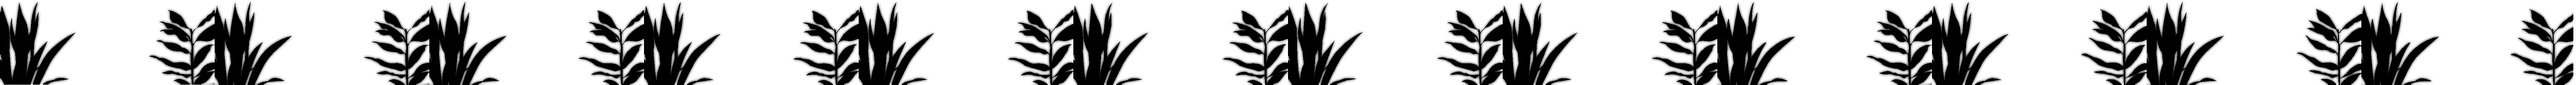
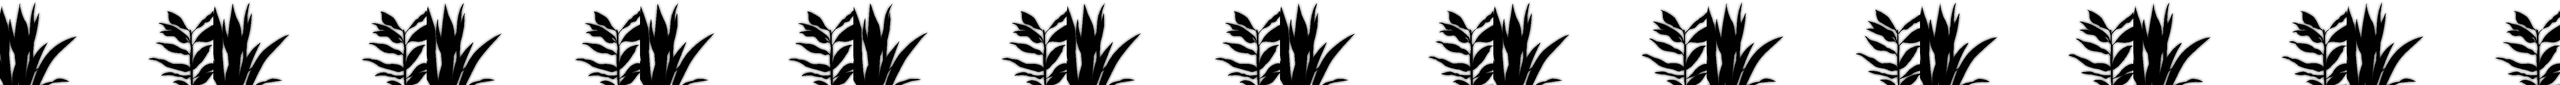
53
타이틀씬 애니메이션 추가

플레이어 애니메이션 추가중

animator create 스프라이트Ratio 인자로 추가해서 텍스처마다 다른 비율로 계산해주게함

diff --git a/Engine_SOURCE/Animator.cpp b/Engine_SOURCE/Animator.cpp
@@ -35,9 +35,10 @@ namespace dru
 		if (!mCurrentAnimation)
 			return;
 
+		Events* events = FindEvents(mCurrentAnimation->GetAnimationName());
+
 		if (mCurrentAnimation->IsCompleted())
 		{
-			Events* events = FindEvents(mCurrentAnimation->GetAnimationName());
 
 			if (events)
 				events->mCompleteEvent();
@@ -45,7 +46,12 @@ namespace dru
 			if(mbLoop)
 				mCurrentAnimation->Reset();
 		}
-		mCurrentAnimation->update();
+		UINT spriteIndex = mCurrentAnimation->update();
+
+		if (spriteIndex != -1 && events->mFrameEvents[spriteIndex].mEvent)
+		{
+			events->mFrameEvents[spriteIndex].mEvent();
+		}
 	}
 
 	void CAnimator::fixedUpdate()
@@ -56,7 +62,7 @@ namespace dru
 	{
 	}
 
-	bool CAnimator::Create(const std::wstring& _name, std::shared_ptr<CTexture> _atlas, Vector2 _leftTop, Vector2 _size, Vector2 _offset, UINT _spriteLength, float _duration, bool _Reverse)
+	bool CAnimator::Create(const std::wstring& _name, std::shared_ptr<CTexture> _atlas, Vector2 _leftTop, Vector2 _size, Vector2 _offset, UINT _spriteLength, Vector2 _Ratio, float _duration, bool _Reverse)
 	{
 		if (!_atlas)
 			return false;
@@ -66,12 +72,13 @@ namespace dru
 			return false;
 
 		animation = new CAnimation();
-		animation->Create(_name, _atlas, _leftTop, _size, _offset, _spriteLength, _duration, _Reverse);
+		animation->Create(_name, _atlas, _leftTop, _size, _offset, _spriteLength, _Ratio, _duration, _Reverse);
 
 		mAnimations.insert(std::make_pair(_name, animation));
 
 		Events* events = new Events();
-//		mEvents.insert(std::make_pair(, events))
+		events->mFrameEvents.resize(_spriteLength);
+		mEvents.insert(std::make_pair(_name, events));
 
 		return true;
 	}
@@ -103,8 +110,9 @@ namespace dru
 	void CAnimator::Play(std::wstring _name, bool _bLoop)
 	{
 		CAnimation* prevAnimation = mCurrentAnimation;
-
-		Events* events = FindEvents(mCurrentAnimation->GetAnimationName());
+		Events* events = nullptr;
+		if (prevAnimation)
+			events = FindEvents(mCurrentAnimation->GetAnimationName());
 
 		if (events)
 			events->mEndEvent();
@@ -151,6 +159,13 @@ namespace dru
 		Events* events = FindEvents(_name);
 
 		return events->mEndEvent.mEvent;
+	}
+
+	std::function<void()>& CAnimator::GetFrameEvent(const std::wstring& _name, UINT _idx)
+	{
+		Events* events = FindEvents(_name);
+
+		return events->mFrameEvents[_idx].mEvent;
 	}
 
 }

diff --git a/Engine_SOURCE/PlayerScript.cpp b/Engine_SOURCE/PlayerScript.cpp
@@ -4,6 +4,7 @@
 #include "Input.h"
 #include "TimeMgr.h"
 #include "RigidBody.h"
+#include "Animator.h"
 
 namespace dru
 {
@@ -17,6 +18,11 @@ namespace dru
 
 	void CPlayerScript::Initialize()
 	{
+		CAnimator* animator = GetOwner()->GetComponent<CAnimator>();
+		animator->GetCompleteEvent(L"Player_IdleToRun") = std::bind(&CPlayerScript::idletorun, this);
+		animator->GetCompleteEvent(L"Player_RunToIdle") = std::bind(&CPlayerScript::runtoidle, this);
+		animator->GetCompleteEvent(L"Player_Attack") = std::bind(&CPlayerScript::attacktoidle, this);
+
 	}
 
 	void CPlayerScript::update()
@@ -67,7 +73,7 @@ namespace dru
 				MousePos /= 100.f;
 	
 			if (MousePos.x < pos.x)
-				GetOwner()->SetLeft();
+				GetOwner()->SetLeft(); 
 			else
 				GetOwner()->SetRight();
 
@@ -81,6 +87,8 @@ namespace dru
 
 				rigidebody->AddForce(vect * 20000.f);
 
+				CAnimator* animator = GetOwner()->GetComponent<CAnimator>();
+				animator->Play(L"Player_Attack", false);
 			}
 		}
 
@@ -91,6 +99,10 @@ namespace dru
 
 		transform->SetPosition(pos);
 		GetOwner()->Flip();
+
+
+		//CAnimator* animator = GetOwner()->GetComponent<CAnimator>();
+		//animator->GetCompleteEvent(L"idletorun")  = std::bind(&CPlayerScript::idletorun, this);
 	}
 
 	void CPlayerScript::fixedUpdate()
@@ -105,7 +117,7 @@ namespace dru
 	{
 		if (L"col_floor" == _oppo->GetName())
 		{
-			GetOwner()->GetComponent<CRigidBody>()->OnGround();
+			GetOwner()->GetComponent<CRigidBody>()->SetGround();
 
 
 		}
@@ -129,6 +141,23 @@ namespace dru
 
 	void CPlayerScript::OnTriggerExit(CCollider2D* _oppo)
 	{
+	}
+
+	void CPlayerScript::idletorun()
+	{
+	}
+
+	void CPlayerScript::runtoidle()
+	{
+	}
+
+	void CPlayerScript::attacktoidle()
+	{
+		if (!GetOwner()->GetComponent<CRigidBody>()->IsOnAir())
+		{
+			CAnimator* animator = GetOwner()->GetComponent<CAnimator>();
+			animator->Play(L"Player_Idle");
+		}
 	}
 
 }

diff --git a/Engine_SOURCE/Player.cpp b/Engine_SOURCE/Player.cpp
@@ -25,10 +25,11 @@ namespace dru
 		SpriteRenderer->SetMaterial(Material);
 
 		CAnimator* animator = playerObj->AddComponent<CAnimator>(eComponentType::Animator);
-		animator->Create(L"Player_Idle", Material->GetTexture(), { 0.f, 0.f }, { 40.f, 40.f }, Vector2::Zero, 10, 0.1f);
-		animator->Create(L"Player_Run", Material->GetTexture(), { 10.f, 11.f }, { 36.f, 35.f }, Vector2::Zero, 10, 0.1f);
-		animator->Create(L"Player_IdleToRun", Material->GetTexture(), { 396.f, 0.f }, { 44.f, 36.f }, Vector2::Zero, 4, 0.1f);
-		animator->Create(L"Player_RunToIdle", Material->GetTexture(), { 622.f, 0.f }, { 52.f, 39.f }, Vector2::Zero, 4, 0.1f);
+		animator->Create(L"Player_Idle", Material->GetTexture(), { 2718.f, 0.f }, { 62.f, 50.f }, Vector2::Zero, 10, { 50.f, 50.f }, 0.1f);
+		animator->Create(L"Player_Run", Material->GetTexture(), { 10.f, 11.f }, { 36.f, 35.f }, Vector2::Zero, 10, { 35.f, 35.f }, 0.1f);
+		animator->Create(L"Player_IdleToRun", Material->GetTexture(), { 396.f, 0.f }, { 44.f, 36.f }, Vector2::Zero, 4, { 35.f, 35.f }, 0.1f);
+		animator->Create(L"Player_RunToIdle", Material->GetTexture(), { 622.f, 0.f }, { 52.f, 39.f }, Vector2::Zero, 4, { 35.f, 35.f }, 0.1f);
+		animator->Create(L"Player_Attack", Material->GetTexture(), { 0.f, 0.f }, { 62.f, 50.f }, Vector2::Zero, 7, { 50.f, 50.f }, 0.1f);
 		animator->Play(L"Player_Idle");
 
 	}

diff --git a/Engine_SOURCE/BaseRenderer.h b/Engine_SOURCE/BaseRenderer.h
@@ -19,11 +19,13 @@ namespace dru
 
 		void SetMesh(std::shared_ptr <CMesh> _Mesh) { mMesh = _Mesh; }
 		void SetMaterial(std::shared_ptr <CMaterial> _Material);
+		void SetAnimMaterial(std::shared_ptr <CMaterial> _Material, Vector2 _SpriteSize);
+
 
 		std::shared_ptr<CMesh> GetMesh() { return mMesh; }
 		std::shared_ptr<CMaterial> GetMaterial() { return mMaterial; }
 
-		void ChangeSize() { mChanged = true; }
+		void ChangeSize() { mbIsChanged = true; }
 
 	private:
 		void adjustTexture();
@@ -36,7 +38,11 @@ namespace dru
 		float mWidthRatio;
 		float mHeightRatio;
 
-		bool mChanged;
+		bool mbIsChanged;
+		bool mbIsAnim;
+
+		Vector2 mSpriteSize;
+
 
 	};
 

diff --git a/Engine_SOURCE/RigidBody.h b/Engine_SOURCE/RigidBody.h
@@ -40,8 +40,10 @@ namespace dru
 		void SetFricCoeff(float _Value) { mFricCoeff = _Value; }
 		float GetFricCoeff() const { return mFricCoeff; }
 
-		void OnGround() { mbOnAir = false; }
-		void OnAir() { mbOnAir = true; }
+		void SetGround() { mbOnAir = false; }
+		void SetAir() { mbOnAir = true; }
+
+		bool IsOnAir() { return mbOnAir; }
 
 	private:
 		void objMove();

diff --git a/Engine_SOURCE/Renderer.cpp b/Engine_SOURCE/Renderer.cpp
@@ -408,7 +408,6 @@ namespace dru::renderer
 
 
 		CResources::Load<CTexture>(L"player", L"MainScene/Player.png");
-		//CResources::Load<CTexture>(L"player", L"MainScene/Player2.png");
 
 		CResources::Load<CTexture>(L"hud_top", L"MainScene/Hud/hud_top.png");
 		CResources::Load<CTexture>(L"hud_timer", L"MainScene/Hud/hud_timer.png");
